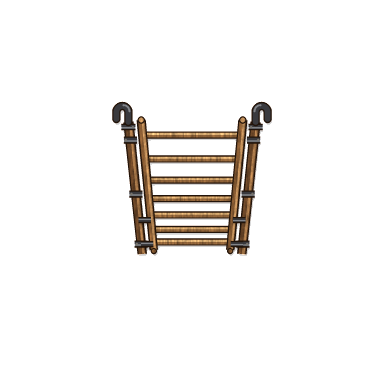
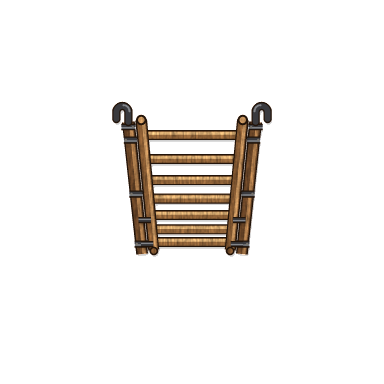
Ladder v5 wood heft (RAIL_LADDER_REDRAW_FAT_RUNG_FENCE): thicker timber rungs, stringers, rails
Owner 2026-10-24: "Wood railing: Not bad, but it needs to be thicker because it's wood. Perspectives are all good."
WOOD palette heft 1.4x (rung 7.4, stringers 8.8/8.0, rails 9.8/8.8, side-view rails 1.5x); geometry untouched;
steel and portable outputs byte-identical. Judge runs ladders_wood_heft(_b)_20261024: ESCALATE (rounds spent);
round b GPT refuted both Opus concerns, unsure only for the missing in-game capture. Candidates, not installed.

Claude-Session: https://claude.ai/code/session_01L4tZvxfH2SUAkWkAy5bEtn

Changed region(s): [[0.3125, 0.2812, 0.6875, 0.6875]]

diff --git a/src/RimMandrake/FlowWorks/art_source/Ladder/v5/draw.py b/src/RimMandrake/FlowWorks/art_source/Ladder/v5/draw.py
@@ -30,10 +30,12 @@ OUT = HERE / "out"
 
 STEEL = dict(OUTL=(14, 14, 16, 255), RAIL=(52, 54, 58, 255), RAIL_HI=(118, 122, 128, 255), STR=(66, 68, 73, 255),
              STR_HI=(146, 150, 156, 255), RUNG=(88, 88, 90, 255), RUNG_HI=(190, 186, 178, 255), BOLT=(150, 146, 138, 255),
-             HOOK=(52, 54, 58, 255), HOOK_HI=(118, 122, 128, 255), rung_d=3.8, str_w=(5.4, 4.8), rail_w=(6.6, 5.8))
+             HOOK=(52, 54, 58, 255), HOOK_HI=(118, 122, 128, 255), rung_d=3.8, str_w=(5.4, 4.8), rail_w=(6.6, 5.8), heft=1.0, side_rail_k=1.0)
 WOOD = dict(OUTL=(34, 20, 10, 255), RAIL=(104, 68, 38, 255), RAIL_HI=(170, 122, 74, 255), STR=(128, 86, 48, 255),
             STR_HI=(196, 146, 92, 255), RUNG=(142, 98, 56, 255), RUNG_HI=(214, 170, 112, 255), BOLT=(120, 116, 108, 255),
-            HOOK=(58, 58, 62, 255), HOOK_HI=(130, 132, 136, 255), rung_d=4.6, str_w=(6.2, 5.6), rail_w=(7.4, 6.6))
+            HOOK=(58, 58, 62, 255), HOOK_HI=(130, 132, 136, 255), rung_d=7.4, str_w=(8.8, 8.0), rail_w=(9.8, 8.8), heft=1.4, side_rail_k=1.5)
+# Wood heft (owner 2026-10-24: "it needs to be thicker because it's wood"): timber rungs, stringers and rails ~1.4x the
+# steel set's; geometry (centres, facings, offsets, raise) unchanged.
 
 CX, RIM, FOOT = v4.CX, v4.RIM, v4.FOOT
 RAIL_HALF, LAD_HALF = v4.RAIL_HALF, v4.LAD_HALF
@@ -43,12 +45,12 @@ RAISE_N = 62                          # raised slide: the ladder foot stays insi
 
 
 # ---------------------------------------------------------------- north (lowered = v4 geometry)
-def north_rails(P):
+def north_rails(P, rail_k=1.0):
     pen = Pen()
     top, bot = RIM - 6, FOOT + 2
     for side in (-1, 1):
         xt, xb = CX + side * x_at(RAIL_HALF, top), CX + side * x_at(RAIL_HALF, bot)
-        bar(pen, (xt, top), (xb, bot), *P["rail_w"], P["RAIL"], P["RAIL_HI"], P["OUTL"])
+        bar(pen, (xt, top), (xb, bot), *[w * rail_k for w in P["rail_w"]], P["RAIL"], P["RAIL_HI"], P["OUTL"])
         for yb in (RIM + 12, (RIM + FOOT) / 2 + 4, FOOT - 8):     # wall brackets, bolted to the face
             xr = CX + side * x_at(RAIL_HALF, yb)
             bar(pen, (xr - 6.5, yb), (xr + 6.5, yb), 4.2, 4.2, P["HOOK"], P["HOOK_HI"], P["OUTL"], hi_side=1)
@@ -68,10 +70,10 @@ def north_ladder(P, dy=0, n_rungs=7, rung_k=1.0, ratio=0.88, str_k=1.0):
     for side in (-1, 1):
         xt, xb = CX + side * x_at(LAD_HALF, top), CX + side * x_at(LAD_HALF, bot)
         bar(pen, (xt, top + dy), (xb, bot + dy), *[w * str_k for w in P["str_w"]], P["STR"], P["STR_HI"], P["OUTL"])
-        pen.disc((xb, bot + dy + 1), 3.0, P["OUTL"])
-        pen.disc((xb, bot + dy + 1), 1.9, P["STR"])
-        pen.disc((xt, top + dy), 3.6, P["OUTL"])
-        pen.disc((xt, top + dy), 2.3, P["STR_HI"])
+        pen.disc((xb, bot + dy + 1), 3.0 * P["heft"], P["OUTL"])
+        pen.disc((xb, bot + dy + 1), 1.9 * P["heft"], P["STR"])
+        pen.disc((xt, top + dy), 3.6 * P["heft"], P["OUTL"])
+        pen.disc((xt, top + dy), 2.3 * P["heft"], P["STR_HI"])
         # slide clips: two short shoes from the stringer out to its rail, near the ladder foot (they move with it)
         for yc in (bot - 30, bot - 6):
             y = yc + dy
@@ -99,8 +101,8 @@ def wood_grain(im, seed=7):
     return Image.fromarray(np.clip(a, 0, 255).round().astype(np.uint8), "RGBA")
 
 
-def rail_north(P, raised, **ladder_kw):
-    im = shadowed(north_rails(P), **SHADOW)
+def rail_north(P, raised, rail_k=1.0, **ladder_kw):
+    im = shadowed(north_rails(P, rail_k), **SHADOW)
     im.alpha_composite(shadowed(north_ladder(P, -RAISE_N if raised else 0, **ladder_kw), **SHADOW))
     return finish(wood_grain(im) if P is WOOD else im)
 
@@ -135,7 +137,9 @@ def rail_east(P, raised):
     # narrowing faster with depth (the squeeze hides the north view's 0.88), stringers thicker (side face shows).
     # Raised: on the side wall "up the wall" is screen-right (east), so the slid-up top continues east past the rim the
     # way the north view's raised top continues screen-up past the north rim.
-    return side_from_north(rail_north(P, raised, n_rungs=5, rung_k=1.6, ratio=0.72, str_k=1.6))
+    # side_rail_k: the guide rails thickened like the stringers, so wood rails in the side views keep the north view's
+    # timber heft (judge 2026-10-24: raised E/W rails "read closer to steel tube"); 1.0 for steel (accepted as drawn).
+    return side_from_north(rail_north(P, raised, rail_k=P["side_rail_k"], n_rungs=5, rung_k=1.6, ratio=0.72, str_k=1.6))
 
 
 # ---------------------------------------------------------------- south (near rim at row 256): v4 shape, palette
@@ -151,10 +155,10 @@ def rail_south(P, raised):
             h = lerp(LAD_HALF[0], LAD_HALF[0] + 3, k)
             rung(pen, CX - h, CX + h, y, P["rung_d"] * .95, P["RUNG"], P["RUNG_HI"], P["OUTL"])
         for side in (-1, 1):
-            bar(pen, (CX + side * LAD_HALF[0], S_RIM + 1), (CX + side * (LAD_HALF[0] + 3), top), 4.6, 5.0,
+            bar(pen, (CX + side * LAD_HALF[0], S_RIM + 1), (CX + side * (LAD_HALF[0] + 3), top), 4.6 * P["heft"], 5.0 * P["heft"],
                 P["STR"], P["STR_HI"], P["OUTL"])
-            pen.disc((CX + side * (LAD_HALF[0] + 3), top), 3.8, P["OUTL"])
-            pen.disc((CX + side * (LAD_HALF[0] + 3), top), 2.4, P["STR_HI"])
+            pen.disc((CX + side * (LAD_HALF[0] + 3), top), 3.8 * P["heft"], P["OUTL"])
+            pen.disc((CX + side * (LAD_HALF[0] + 3), top), 2.4 * P["heft"], P["STR_HI"])
     for side in (-1, 1):
         bar(pen, (CX + side * S_HALF - 7, S_RIM + 1), (CX + side * S_HALF + 7, S_RIM + 1), 3.6, 3.6,
             P["HOOK"], P["HOOK_HI"], P["OUTL"], hi_side=1)

diff --git a/infrastructure/state/art_eval/runs/ladders_wood_heft_20261024/summary.md b/infrastructure/state/art_eval/runs/ladders_wood_heft_20261024/summary.md
@@ -1,0 +1,10 @@
+# art_eval run ladders_wood_heft_20261024
+
+| subject | cand | template/module | Opus band | GPT | decision | s | reasons |
+|---|---|---|---|---|---|---|---|
+| RM_Ladder | A | machine/wall_mounted | WEAK | unsure | **ESCALATE** | 138.9 | opus band WEAK (model said good); blocking ['OWNER_NOTE_IGNORED', 'F_INCONSISTENT']; polish []; unreadable ['BORE (n/a on an unconditional item)', 'PORTS (n/a on an unconditional item)']; gpt unsure: unsettled ['K2'], own blocking []; still failing after 3 regen rounds — one line to the owner |
+
+## One line each for the owner
+- RM_Ladder: ESCALATE — still failing after 3 regen rounds — one line to the owner
+
+Models reported: claude-opus-5-5, gpt-6.1-sol · prompt versions: `departures_brief@v2#9cda88+gpt_targeted_second_look@v1#cb6e32+opus_first_pass@v2#85b8f1+preamble@v2#7130aa+regen_prompt_edit@v1#861700+severity@v4#e9bbe1+machine@v3#c807af`

diff --git a/infrastructure/state/art_eval/runs/ladders_wood_heft_b_20261024/summary.md b/infrastructure/state/art_eval/runs/ladders_wood_heft_b_20261024/summary.md
@@ -1,0 +1,10 @@
+# art_eval run ladders_wood_heft_b_20261024
+
+| subject | cand | template/module | Opus band | GPT | decision | s | reasons |
+|---|---|---|---|---|---|---|---|
+| RM_Ladder | A | machine/wall_mounted | WEAK | unsure | **ESCALATE** | 144.5 | opus band WEAK (model said good); blocking ['DESC_MISS', 'F_INCONSISTENT']; polish []; unreadable ['BORE (n/a on an unconditional item)', 'PORTS (n/a on an unconditional item)']; gpt unsure: unsettled [], own blocking []; still failing after 3 regen rounds — one line to the owner |
+
+## One line each for the owner
+- RM_Ladder: ESCALATE — still failing after 3 regen rounds — one line to the owner
+
+Models reported: claude-opus-5-5, gpt-6.1-sol · prompt versions: `departures_brief@v2#9cda88+gpt_targeted_second_look@v1#cb6e32+opus_first_pass@v2#85b8f1+preamble@v2#7130aa+regen_prompt_edit@v1#861700+severity@v4#e9bbe1+machine@v3#c807af`
